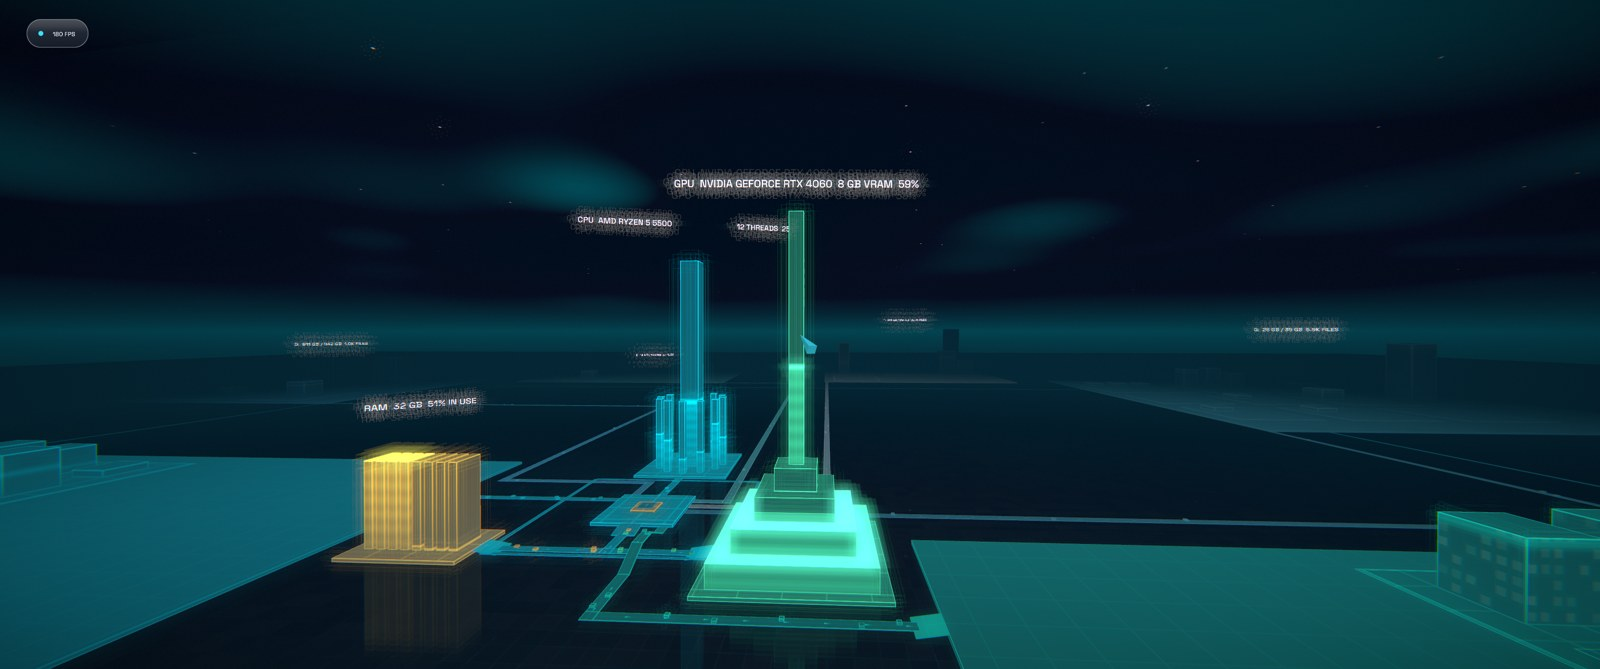
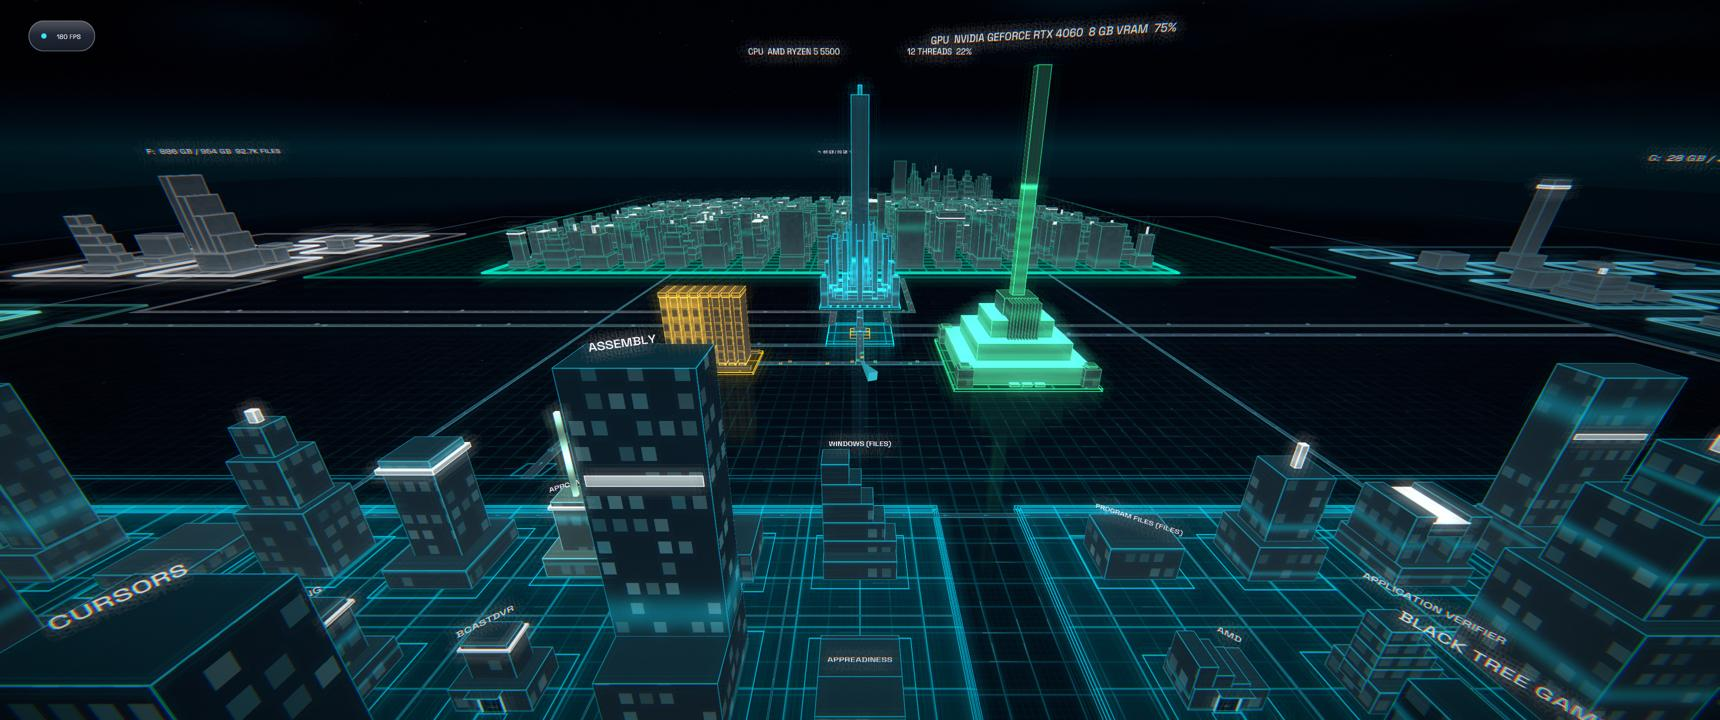
Refresh README and screenshots

diff --git a/README.md b/README.md
@@ -62,6 +62,19 @@ around it are your drives. **Walk** with WASD, or **double-tap Space to fly** an
 - **Idle tour:** leave it alone for 10 seconds and the camera takes you on a cinematic flight through the city. Touch
   any control to take over again.
 
+### Doors, lobbies and rooms
+Every folder is a building and every sub-folder a door. Doors show a large thumbnail (videos use a frame from about
+20% in) with the name below; hover a door to swap the name for extra details while the thumbnail stays put. Lobbies
+and rooms fill the far wall first, then the side walls, and the exit wall last.
+
+![Lobby doors](docs/lobby-doors.jpg)
+![Door hover details](docs/door-hover.jpg)
+
+### Ride the bus lanes
+Click a bus lane to ride it: a chase camera follows you along the lane network with a glowing trail.
+Districts sit on glass-pane floors with a neon outline, and the whole city has a dark, moody grade.
+
+![Street level](docs/city-street.jpg)
 ![The hub and bus lanes](docs/city-hub.jpg)
 ![The command ring](docs/command-ring.jpg)
 ![Settings](docs/settings.jpg)
@@ -99,7 +112,7 @@ gently turns to face them and stays put until you move.
 
 *"I tried to picture clusters of information as they moved through the computer."*
 
-This is the first light-cycle lap. The grid is about to get **gnarly**:
+This is only the first lap. The grid is about to get **gnarly**:
 
 - **Networking:** link up cities across the wire. Your machine, your friends' machines, one shared grid.
 - **Shared spaces:** VR-chat-style hangouts where you and your crew drift through each other's data, together.
@@ -188,7 +201,7 @@ folder is missing the shell builds without a browser. The project now builds as 
 - **Settings**: the ring's Settings segment opens a card based hub (aim + click / A / trigger to open a card, arrow keys / d-pad / wheel to move, Esc / B goes back, then closes). The **SHELL** card holds the app options (VR mode, theme, look sensitivity, move speed, invert look Y, crosshair, FPS counter, browser resolution, exit), saved to `%LOCALAPPDATA%\SciFiShell\settings.ini`. On Windows the other cards are native replacements for the Control Panel (no hosted Windows pages): Display (resolution/scaling info), Sound (volume up/down, mute), Network (active adapters and IPs), Mouse (pointer speed, swap buttons), Personalisation (Windows dark mode, shell theme), Power (battery, lock, sleep) and System (PC name, Windows, CPU, memory, uptime, clock, drives). System and Display cards are read-only. Not covered yet: changing resolution, brightness, Bluetooth, Wi-Fi networks, night light, app management.
 - **Window behaviour (desktop)**: apps, the browser, settings and the media/text viewer open filling about 85% of the screen as single glass cards with a title bar and small rounded corners. Every window has the same top-right buttons: fullscreen toggle then close (apps also have hide, to the left). Fullscreen (button, F11 for apps/viewer, Esc to leave) works for apps, the browser, settings and media. While the pointer is anywhere over a card (margins and gaps included) the view and walking are frozen and the mouse moves a cursor, so it behaves like a normal fixed window; move the cursor off it and the camera eases round and the keyboard (WASD/arrows) drives the camera again, regardless of which text field last had focus. Press and hold the mouse still on a window for about half a second to glide the view back so the window is centred (aimed straight at its middle) at 85% again. Mouse wheel over a picture zooms into the cursor. Windows can be repositioned by dragging: the title bar (apps), the empty parts of the toolbar (browser) or the title/details/margin of the viewer card. VR is unchanged. The browser's 3D depth options are disabled and hidden for now.
 - **Applications (Windows)**: the ring's Apps segment shows an outer ring of icons (from the shell) for Notepad plus every program pinned to your Windows taskbar (`SCIFI_OPEN_APPS=1` opens it at start for debugging; the pin list is read from (read from `%APPDATA%\Microsoft\Internet Explorer\Quick Launch\User Pinned\TaskBar`). Several programs can be open as panels at once; the panel under the pointer takes the keyboard. Caveats: single-instance apps that hand off to an already-running process, apps with splash windows, and elevated apps (e.g. Task Manager) may fail to attach or pick the wrong window. The program runs normally but its window is parked off-screen and mirrored onto a floating panel. Aim + click to use it; once clicked, the keyboard (typing, Ctrl+C/X/V/A/Z) goes to it (hold Alt to walk). Esc / B hides the panel (program keeps running); the X on the panel's bar closes the program, â€“ hides it. Input to the program's text area is injected as window messages; tabs, buttons and menus are clicked through UI Automation by the `SciFiUia.exe` helper (built next to `SciFiShell.exe`, must stay beside it). Menus/flyouts are mirrored into the panel. The hosted window is marked non-activating so clicking it never steals the foreground (and mouse capture) from the shell. There are no hover highlights. **Moving**: press and hold the panel's title bar (the dark strip, not the buttons) and aim around: the panel follows the pointer at the same distance and turns to face you; release to drop it (mouse only; pad/VR taps don't drag yet). **Fullscreen**: F11 or the square button on the panel's bar makes the program fill the screen (the window is resized to the screen's shape; the mouse / right stick move a pointer over it, the room is frozen); Esc / B / F11 returns. **Task switcher**: Alt+Tab (or Ctrl+Tab, which always works) opens a strip of cards (Room, each running program, Browser, Desktop); keep Alt/Ctrl held and press Tab (Shift+Tab goes back) or â†/â†’ to choose, release to switch; Esc cancels; Desktop minimises the shell. The shell grabs the keyboard so Alt+Tab (and the Win key) reach it instead of Windows; Ctrl+Tab therefore no longer reaches Notepad's tabs.
-- **City** (the home view - the app starts here): a neon-grid city generated from this PC (fly with the usual controls at 8x speed; buildings and the CPU/RAM/GPU monuments are solid. Aim at a tower and click to enter it (opens that folder as a file room; Esc returns to the city). Windows open on top of the city. CPU (spire + per-core pillars), RAM (slab bank) and GPU (ziggurat + VRAM pylon) sit in the middle and show live load; each fixed/removable drive is a platform sized by its capacity, with a lit pad for used space and one tower per top-level folder (height ~ file count, width ~ bytes), joined to the core by roads. A background scan starts ~1.5 s after launch (so it has usually finished listing by the time you open the city) and the city rises out of the grid the first time you view it. A `ReadDirectoryChangesW` watcher per fixed drive flashes towers (green = added, red = removed) with a beam and resizes them. GPU load/VRAM come from Windows performance counters; if unavailable they fall back to a gentle animation. `SCIFI_OPEN_CITY=1` opens it at start (debug). Click a bus lane (or run the `ride N` script command) to ride a light cycle along it with a chase camera and a glowing trail; any movement input, click or Esc gets you off.
+- **City** (the home view - the app starts here): a neon-grid city generated from this PC (fly with the usual controls at 8x speed; buildings and the CPU/RAM/GPU monuments are solid. Aim at a tower and click to enter it (opens that folder as a file room; Esc returns to the city). Windows open on top of the city. CPU (spire + per-core pillars), RAM (slab bank) and GPU (ziggurat + VRAM pylon) sit in the middle and show live load; each fixed/removable drive is a platform sized by its capacity, with a lit pad for used space and one tower per top-level folder (height ~ file count, width ~ bytes), joined to the core by roads. A background scan starts ~1.5 s after launch (so it has usually finished listing by the time you open the city) and the city rises out of the grid the first time you view it. A `ReadDirectoryChangesW` watcher per fixed drive flashes towers (green = added, red = removed) with a beam and resizes them. GPU load/VRAM come from Windows performance counters; if unavailable they fall back to a gentle animation. `SCIFI_OPEN_CITY=1` opens it at start (debug). Click a bus lane (or run the `ride N` script command) to ride along it with a chase camera and a glowing trail; any movement input, click or Esc gets you off.
 - Limitations: fog, bloom and audio cues are shader approximations / not implemented; the viewer, web toolbar and editor panels use baked colours and don't follow the theme yet. `SCIFI_OPEN_RING=1` opens the ring at start (debug).
 
 ## Notes / limitations
